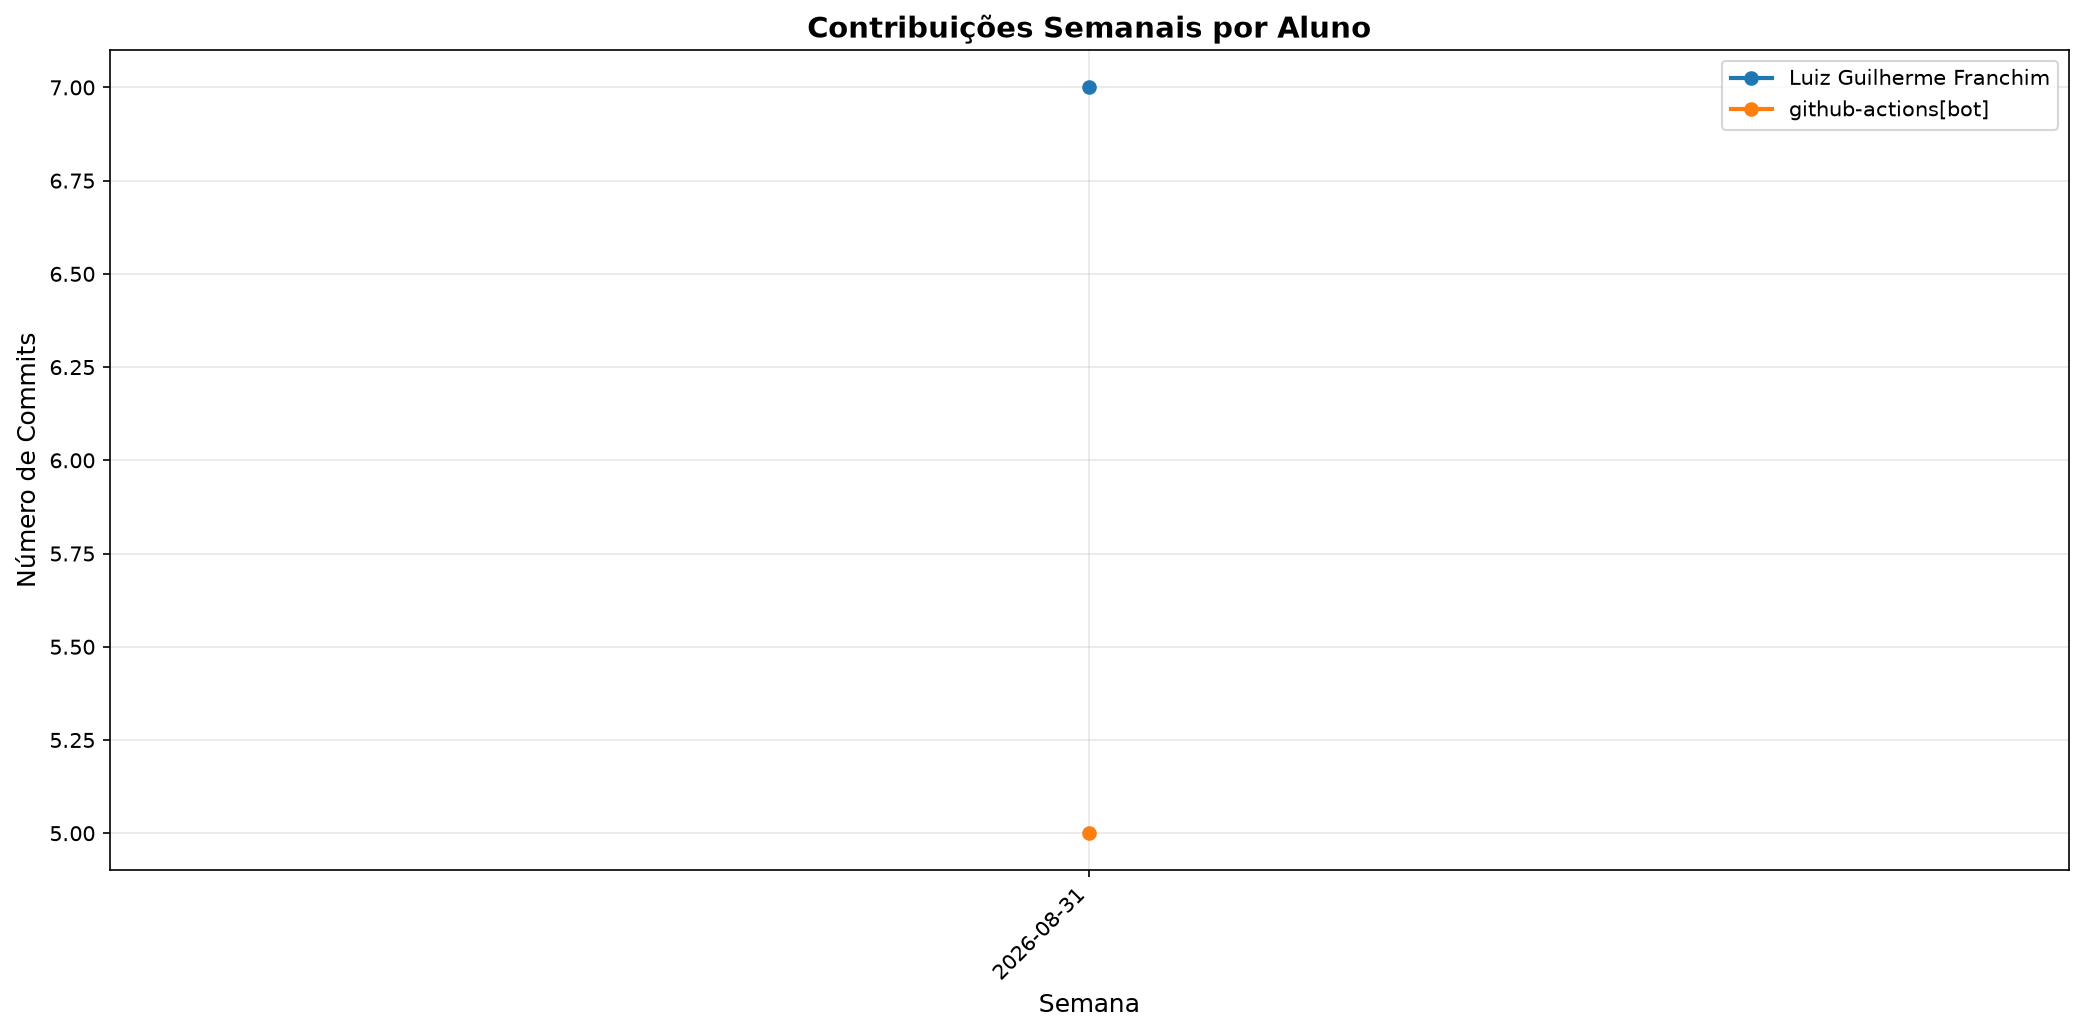
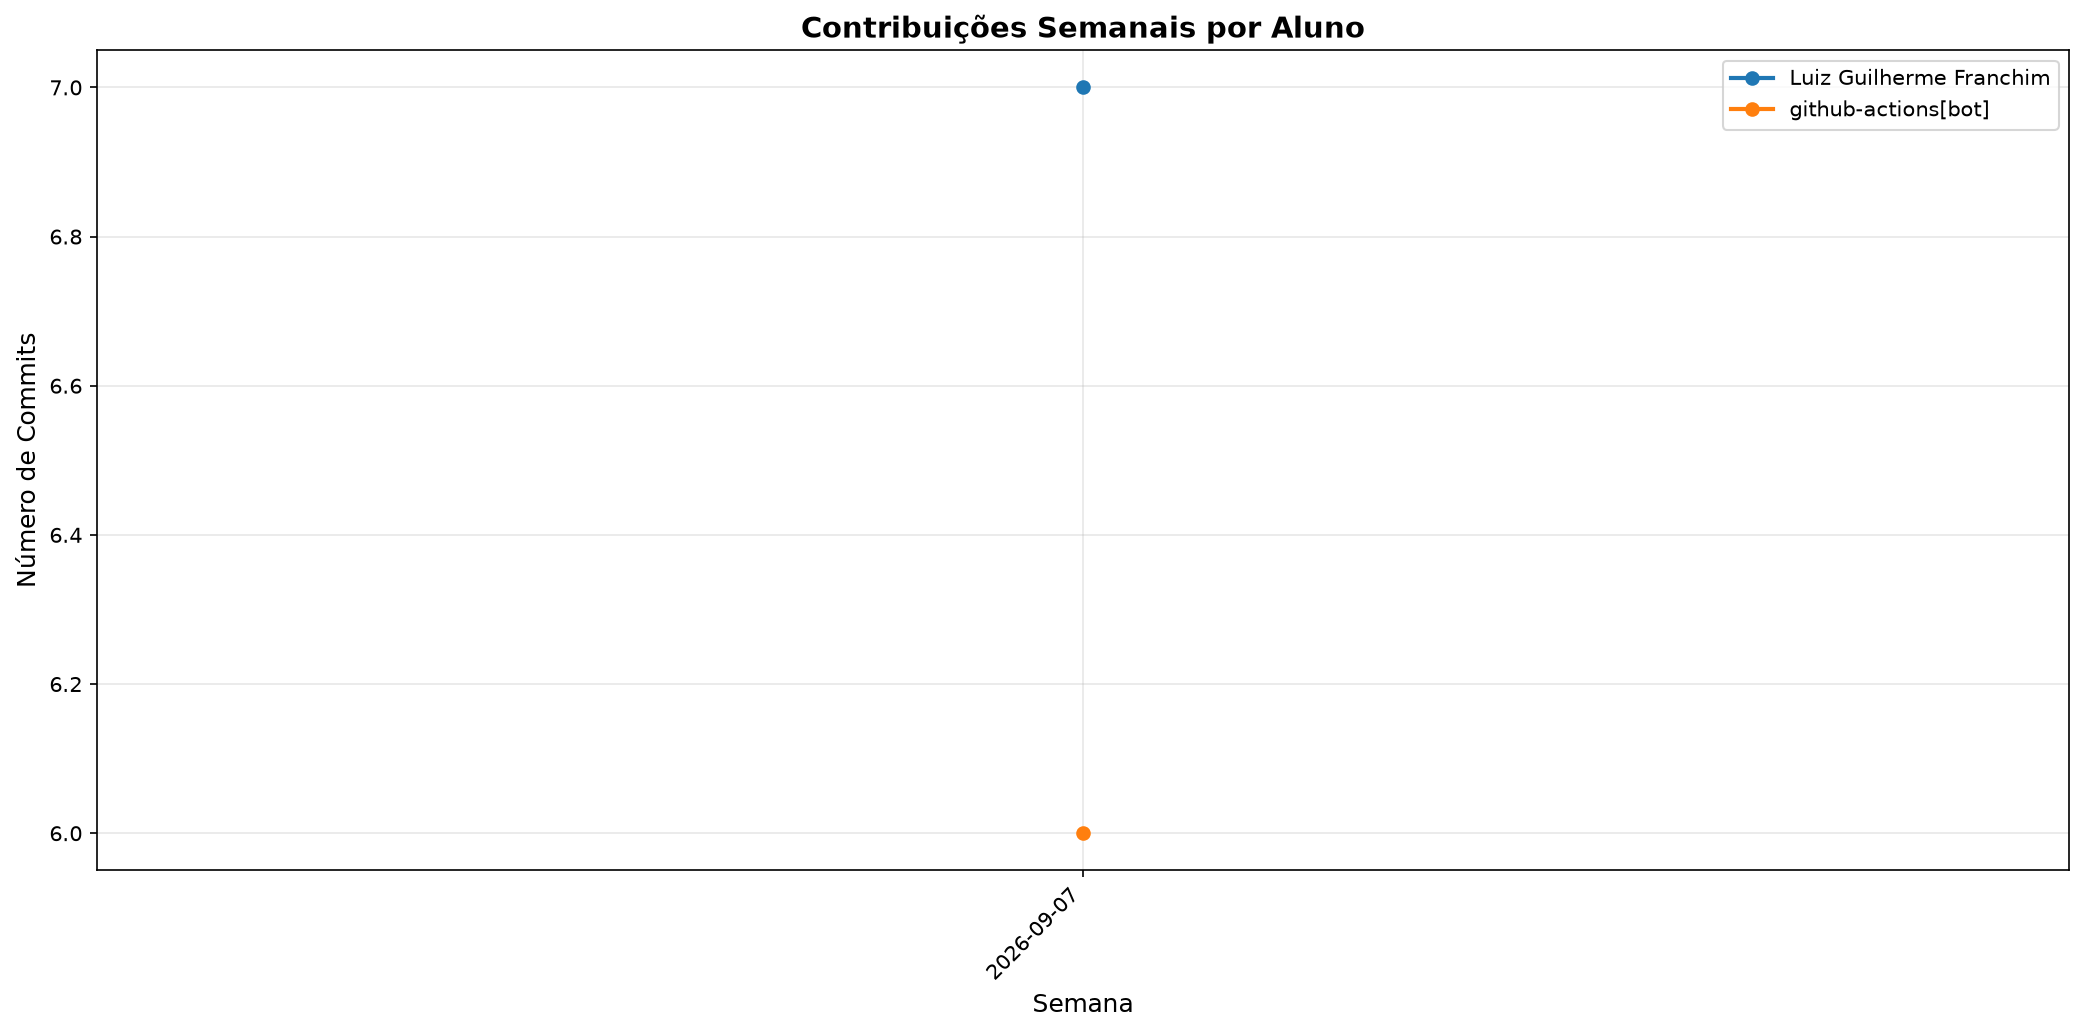
📊 Atualizar relatório de contribuições [skip ci]

diff --git a/documentos/CONTRIBUTION_REPORT.md b/documentos/CONTRIBUTION_REPORT.md
@@ -1,6 +1,6 @@
 # 📊 Relatório de Contribuições do Projeto
 
-**Última atualização:** 07/09/2026 02:50
+**Última atualização:** 14/09/2026 00:46
 
 ---
 
@@ -9,12 +9,12 @@
 | Aluno                   |   Commits |   Linhas+ |   Linhas- |   Arquivos |   Docs Commits |   Docs Arquivos |
 |-------------------------|-----------|-----------|-----------|------------|----------------|-----------------|
 | Luiz Guilherme Franchim |         7 |      1395 |        49 |         27 |              6 |               3 |
-| github-actions[bot]     |         5 |        59 |        15 |          3 |              5 |               1 |
+| github-actions[bot]     |         6 |        63 |        19 |          3 |              6 |               1 |
 
 
 ## 📅 Contribuições Semanais (Todo o Semestre)
 
-**2026-08-31**: Luiz Guilherme Franchim: 7, github-actions[bot]: 5
+**2026-09-07**: Luiz Guilherme Franchim: 7, github-actions[bot]: 6
 
 
 
